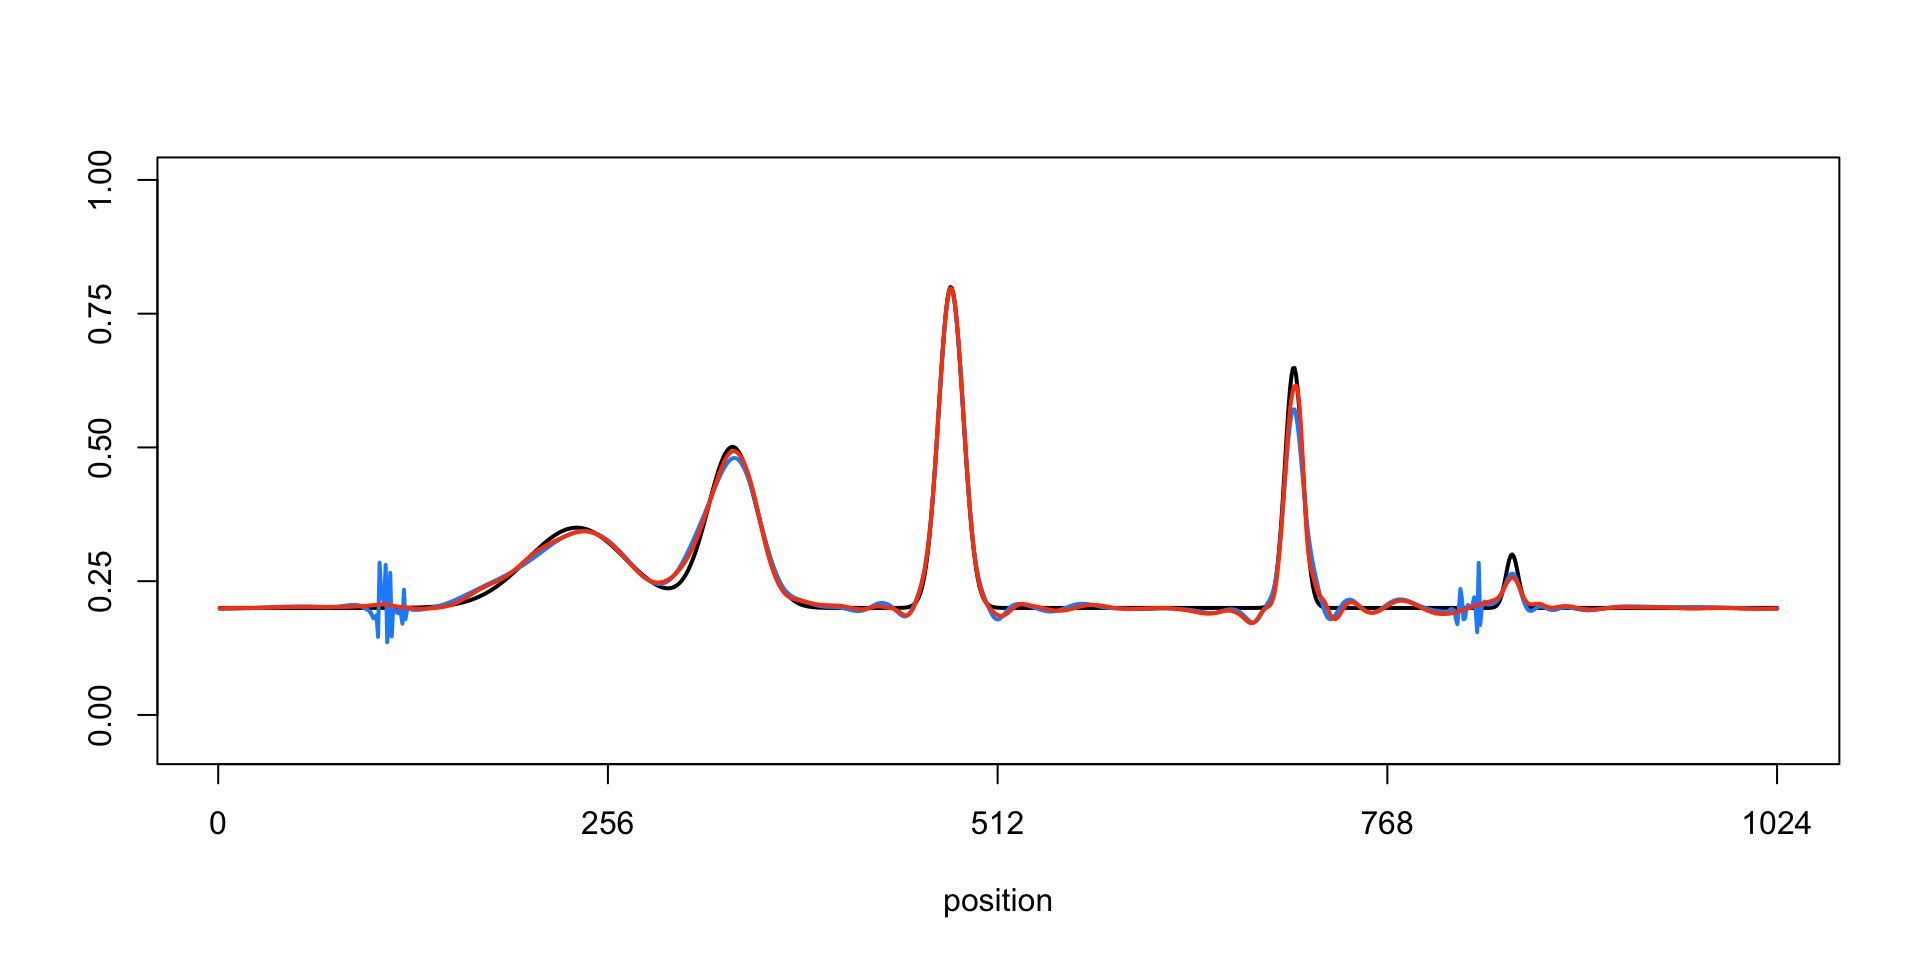
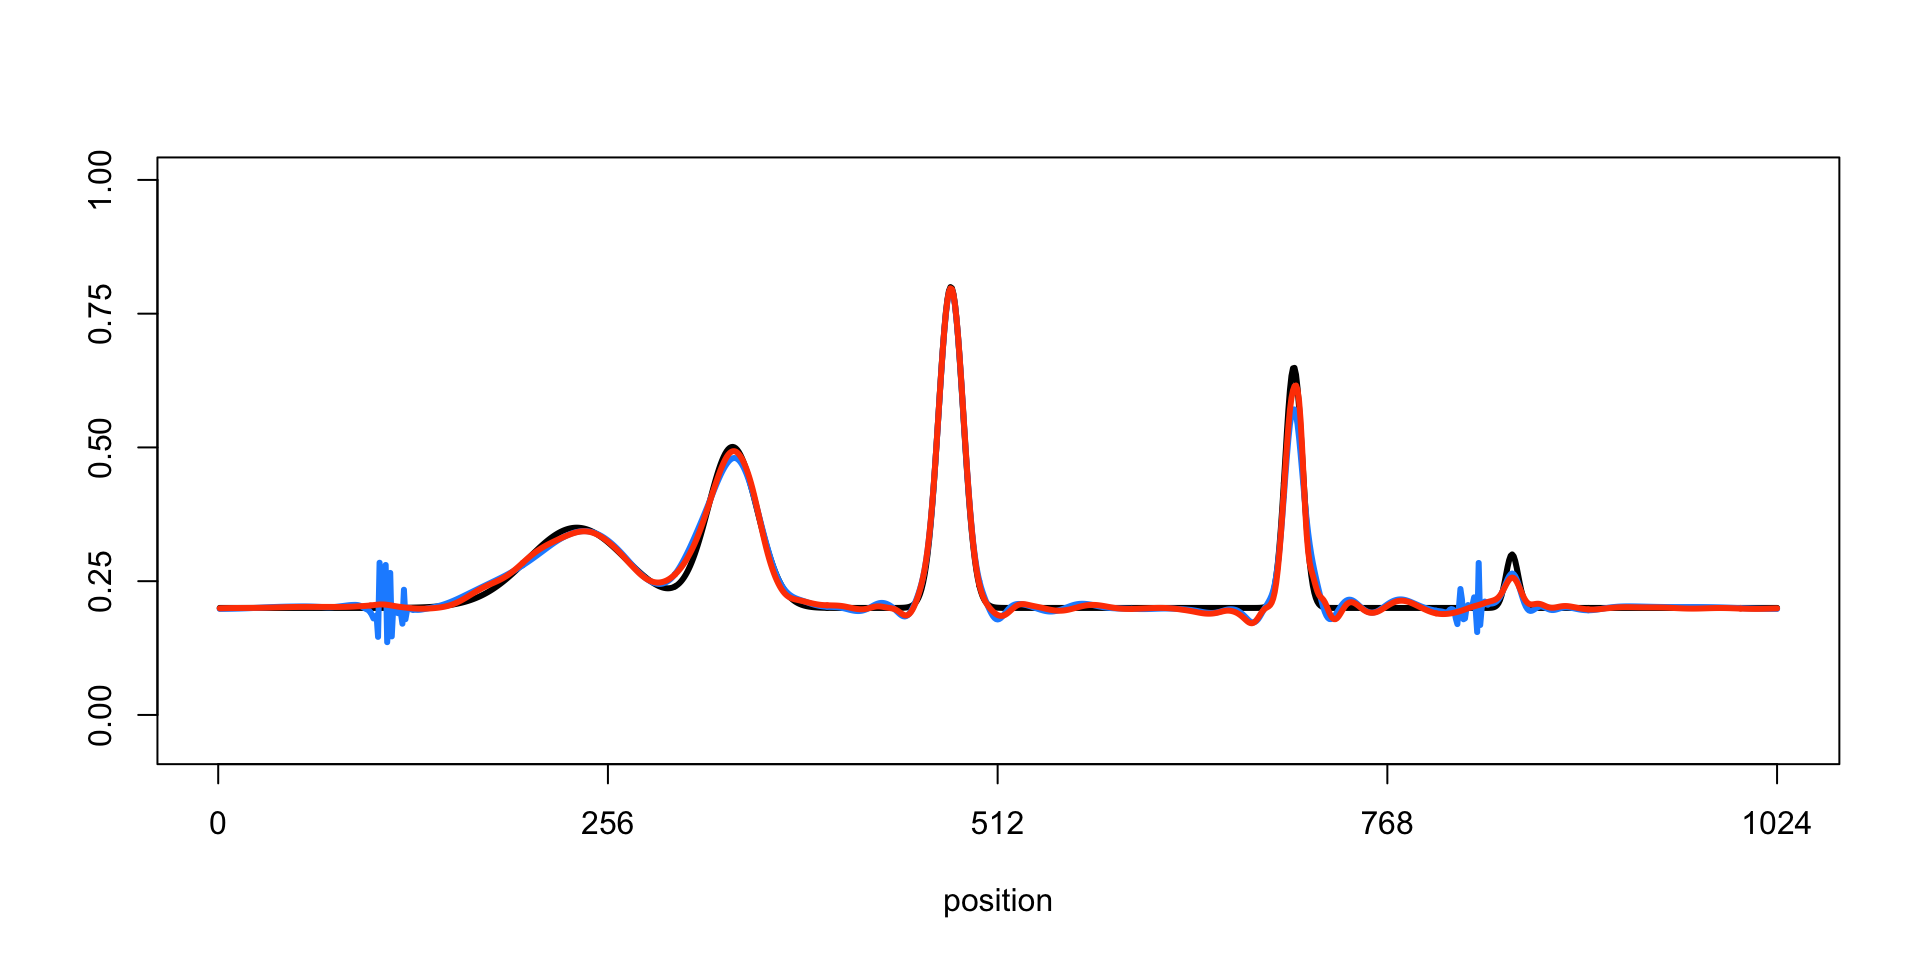
Re-ran wflow_publish("spikesdemo.Rmd") after minor revisions.

diff --git a/docs/spikesdemo.html b/docs/spikesdemo.html
@@ -316,7 +316,7 @@ div.section {
 </div>
 
 
-<p><strong>Last updated:</strong> 2018-08-23</p>
+<p><strong>Last updated:</strong> 2018-09-27</p>
 <strong>workflowr checks:</strong> <small>(Click a bullet for more information)</small>
 <ul>
 <li>
@@ -340,10 +340,11 @@ div.section {
 </details>
 </li>
 <li>
-<p><details> <summary> <strong style="color:blue;">✔</strong> <strong>Repository version:</strong> <a href="https://github.com/stephenslab/smash-paper/tree/c4b2d0b1dc31c513ca7b61af1c310ea9f9f13c1a" target="_blank">c4b2d0b</a> </summary></p>
+<p><details> <summary> <strong style="color:blue;">✔</strong> <strong>Repository version:</strong> <a href="https://github.com/stephenslab/smash-paper/tree/3d5c837c730f4a9d920f9f4960d09df14ce37707" target="_blank">3d5c837</a> </summary></p>
 Great! You are using Git for version control. Tracking code development and connecting the code version to the results is critical for reproducibility. The version displayed above was the version of the Git repository at the time these results were generated. <br><br> Note that you need to be careful to ensure that all relevant files for the analysis have been committed to Git prior to generating the results (you can use <code>wflow_publish</code> or <code>wflow_git_commit</code>). workflowr only checks the R Markdown file, but you know if there are other scripts or data files that it depends on. Below is the status of the Git repository when the results were generated:
 <pre><code>
 Ignored files:
+    Ignored:    analysis/figure/
     Ignored:    dsc/code/R/
     Ignored:    dsc/code/Wavelab850/MEXSource/CPAnalysis.mexmac
     Ignored:    dsc/code/Wavelab850/MEXSource/DownDyadHi.mexmac
@@ -373,12 +374,6 @@ Ignored files:
     Ignored:    dsc/code/Wavelab850/MEXSource/dst_ii.mexmac
     Ignored:    dsc/code/Wavelab850/MEXSource/dst_iii.mexmac
 
-Untracked files:
-    Untracked:  analysis/spikesdemo.R
-
-Unstaged changes:
-    Modified:   code/misc.R
-
 </code></pre>
 Note that any generated files, e.g. HTML, png, CSS, etc., are not included in this status report because it is ok for generated content to have uncommitted changes. </details>
 </li>
@@ -406,6 +401,40 @@ Message
 </tr>
 </thead>
 <tbody>
+<tr>
+<td style="text-align:left;">
+Rmd
+</td>
+<td style="text-align:left;">
+<a href="https://github.com/stephenslab/smash-paper/blob/3d5c837c730f4a9d920f9f4960d09df14ce37707/analysis/spikesdemo.Rmd" target="_blank">3d5c837</a>
+</td>
+<td style="text-align:left;">
+Peter Carbonetto
+</td>
+<td style="text-align:left;">
+2018-09-27
+</td>
+<td style="text-align:left;">
+wflow_publish(“spikesdemo.Rmd”)
+</td>
+</tr>
+<tr>
+<td style="text-align:left;">
+Rmd
+</td>
+<td style="text-align:left;">
+<a href="https://github.com/stephenslab/smash-paper/blob/af743b71ce106c3260cdd79ae28432c58655890f/analysis/spikesdemo.Rmd" target="_blank">af743b7</a>
+</td>
+<td style="text-align:left;">
+Peter Carbonetto
+</td>
+<td style="text-align:left;">
+2018-09-27
+</td>
+<td style="text-align:left;">
+A few minor revisions to the spikes demo.
+</td>
+</tr>
 <tr>
 <td style="text-align:left;">
 Rmd
@@ -668,7 +697,7 @@ Peter Carbonetto
 </tbody>
 </table>
 <p></details></p>
-<p>Observe that the scale = 7 WCs are much more concentrated near zero because the signal is smoother at this finer scale.</p>
+<p>Observe that the scale = 7 WCs (dark blue) are much more concentrated near zero because the signal is smoother at this finer scale.</p>
 <p>Plot the observed wavelet coefficients (at scales 1 and 7 only) vs. the “shrunken” wavelet coefficients estimated by adaptive shrinkage.</p>
 <pre class="r"><code>par(cex.axis = 1,cex.lab = 1.25)
 plot(c(),c(),xlab = &quot;observed wavelet coefficients&quot;,
@@ -710,8 +739,8 @@ Peter Carbonetto
 </tbody>
 </table>
 <p></details></p>
-<p>Observe that the scale = 7 WCs are strongly shrunk toward zero, whereas the scale = 1 WCs are not shrunk nearly as much; SMASH infers from the data that the scale = 7 WCs are heavily concentrated around zero, and consequently SMASH shrinks them more strongly.</p>
-<p>Plot the observed wavelet coefficients (at scale 7 only) vs. the “shrunken” wavelet coefficients estimated by adaptive shrinkage, and how how the amount of shrinkage depends on the standard error (s.e.) in the observations.</p>
+<p>Observe that the scale = 7 WCs (dark blue) are strongly shrunk toward zero, whereas the scale = 1 WCs (orange) are not shrunk nearly as much; SMASH infers from the data that the scale = 7 WCs are heavily concentrated around zero, and consequently SMASH shrinks them more strongly.</p>
+<p>Plot the observed wavelet coefficients (at scale 7 only) vs. the “shrunken” wavelet coefficients estimated by adaptive shrinkage in order to see how the amount of shrinkage depends on the standard error (s.e.) in the observations.</p>
 <pre class="r"><code>wc.sig.3 &lt;- 1/wc.pres[[3]]
 p &lt;- ggplot(data.frame(observed = wc.sim[4,],
                        shrunken = wc.sim.shrunk[[3]]$PosteriorMean,
@@ -754,13 +783,13 @@ Peter Carbonetto
 </tbody>
 </table>
 <p></details></p>
-<p>From this plot, we see that SMASH shrinks WCs differently depending on their precision; specifically, WCs that are less precise—i.e., higher standard error (s.e.)—are shrunk more strongly toward zero.</p>
+<p>From this plot, it is evident that SMASH shrinks WCs differently depending on their precision; specifically, WCs that are less precise—i.e., higher standard error (s.e.)—are shrunk more strongly toward zero.</p>
 <p>Finally, we plot the ground-truth signal (the mean function, drawn as a black line) and the signals recovered by TI thresholding (light blue line) and SMASH (the red line).</p>
 <pre class="r"><code>par(cex.axis = 1)
-plot(mu.sp,type = &quot;l&quot;,col = &quot;black&quot;,lwd = 2,xlab = &quot;position&quot;,ylab = &quot;&quot;,
+plot(mu.sp,type = &quot;l&quot;,col = &quot;black&quot;,lwd = 3,xlab = &quot;position&quot;,ylab = &quot;&quot;,
      ylim = c(-0.05,1),xaxp = c(0,1024,4),yaxp = c(0,1,4))
-lines(mu.ti,col = &quot;dodgerblue&quot;,lwd = 2)
-lines(mu.smash,col = &quot;orangered&quot;,lwd = 2)</code></pre>
+lines(mu.ti,col = &quot;dodgerblue&quot;,lwd = 3)
+lines(mu.smash,col = &quot;orangered&quot;,lwd = 3)</code></pre>
 <p><img src="figure/spikesdemo.Rmd/plot-mean-signal-vs-estimates-1.png" width="960" style="display: block; margin: auto;" /></p>
 <details> <summary><em>Expand here to see past versions of plot-mean-signal-vs-estimates-1.png:</em></summary>
 <table style="border-collapse:separate; border-spacing:5px;">
@@ -792,7 +821,7 @@ Peter Carbonetto
 </tbody>
 </table>
 <p></details></p>
-<p>In this example, the smoothed signal from SMASH is noticeably more accurate than using TI thresholding (with variance estimated by running median absolute deviation, RMAD. The TI thresholding estimate shows notable artifacts.</p>
+<p>In this example, the smoothed signal from SMASH is noticeably more accurate than using TI thresholding (in which the variance is estimated by running the median absolute deviation, or “RMAD”, method). The TI thresholding estimate shows notable artifacts.</p>
 </div>
 <div id="session-information" class="section level2">
 <h2>Session information</h2>
@@ -817,7 +846,7 @@ Peter Carbonetto
 # loaded via a namespace (and not attached):
 #  [1] wavethresh_4.6.8  tidyselect_0.2.4  purrr_0.2.5      
 #  [4] lattice_0.20-35   Rmosek_8.0.69     colorspace_1.4-0 
-#  [7] htmltools_0.3.6   yaml_2.1.19       rlang_0.2.1      
+#  [7] htmltools_0.3.6   yaml_2.2.0        rlang_0.2.1      
 # [10] R.oo_1.21.0       pillar_1.2.1      glue_1.2.0       
 # [13] withr_2.1.2       R.utils_2.6.0     REBayes_1.3      
 # [16] bindrcpp_0.2.2    foreach_1.4.4     plyr_1.8.4       
@@ -825,14 +854,14 @@ Peter Carbonetto
 # [22] gtable_0.2.0      workflowr_1.1.1   R.methodsS3_1.7.1
 # [25] caTools_1.17.1    codetools_0.2-15  evaluate_0.10.1  
 # [28] labeling_0.3      knitr_1.20        pscl_1.5.2       
-# [31] doParallel_1.0.11 parallel_3.4.3    Rcpp_0.12.17     
-# [34] backports_1.1.2   truncnorm_1.0-8   digest_0.6.15    
+# [31] doParallel_1.0.11 parallel_3.4.3    Rcpp_0.12.18     
+# [34] backports_1.1.2   truncnorm_1.0-8   digest_0.6.16    
 # [37] stringi_1.1.7     dplyr_0.7.5       grid_3.4.3       
 # [40] rprojroot_1.3-2   tools_3.4.3       bitops_1.0-6     
 # [43] magrittr_1.5      lazyeval_0.2.1    tibble_1.4.2     
 # [46] whisker_0.3-2     pkgconfig_2.0.1   MASS_7.3-48      
 # [49] Matrix_1.2-12     SQUAREM_2017.10-1 data.table_1.11.4
-# [52] mixSQP_0.1-6      assertthat_0.2.0  rmarkdown_1.9    
+# [52] mixSQP_0.1-17     assertthat_0.2.0  rmarkdown_1.9    
 # [55] iterators_1.0.9   R6_2.2.2          git2r_0.21.0     
 # [58] compiler_3.4.3</code></pre>
 </div>
